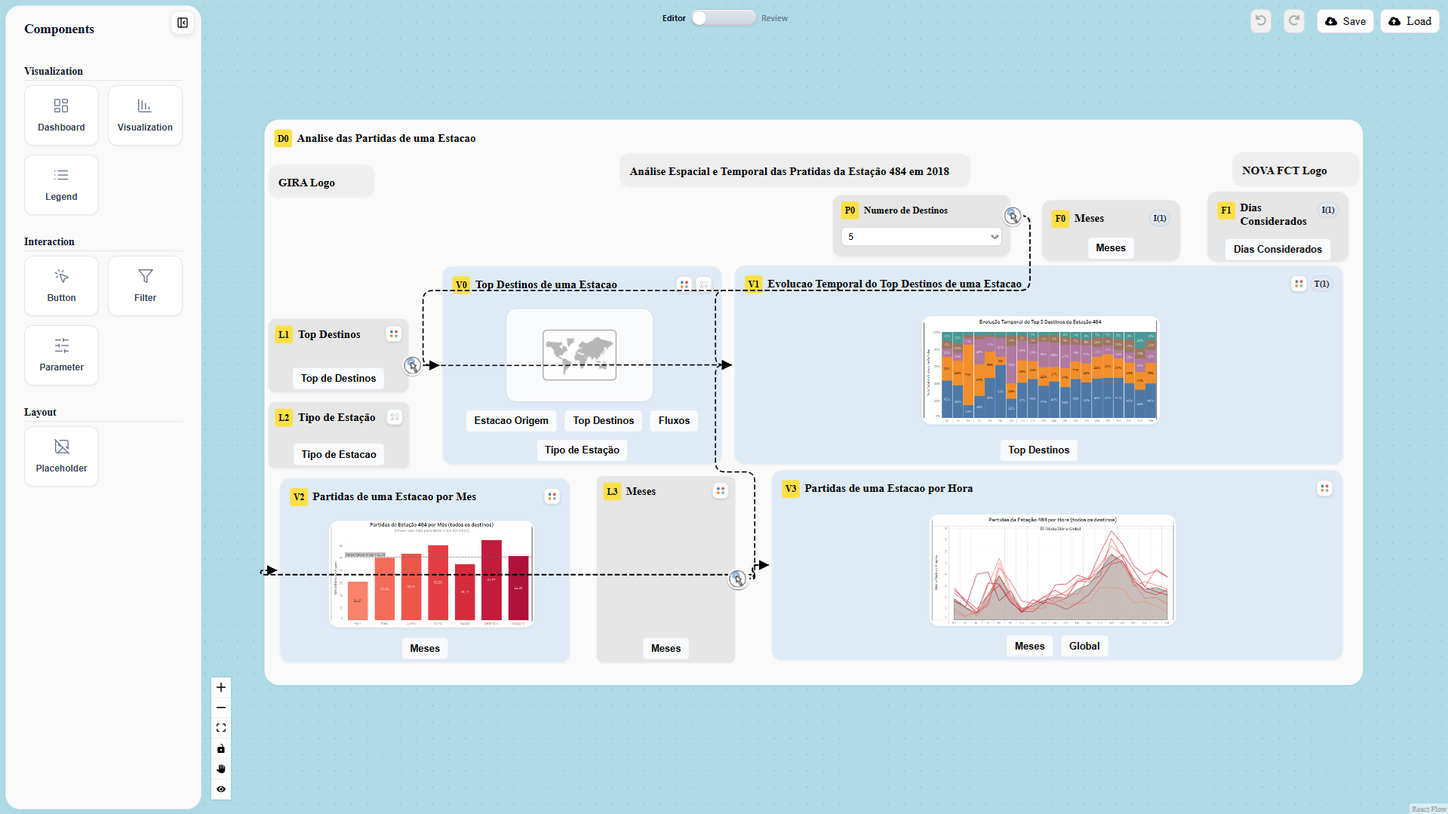
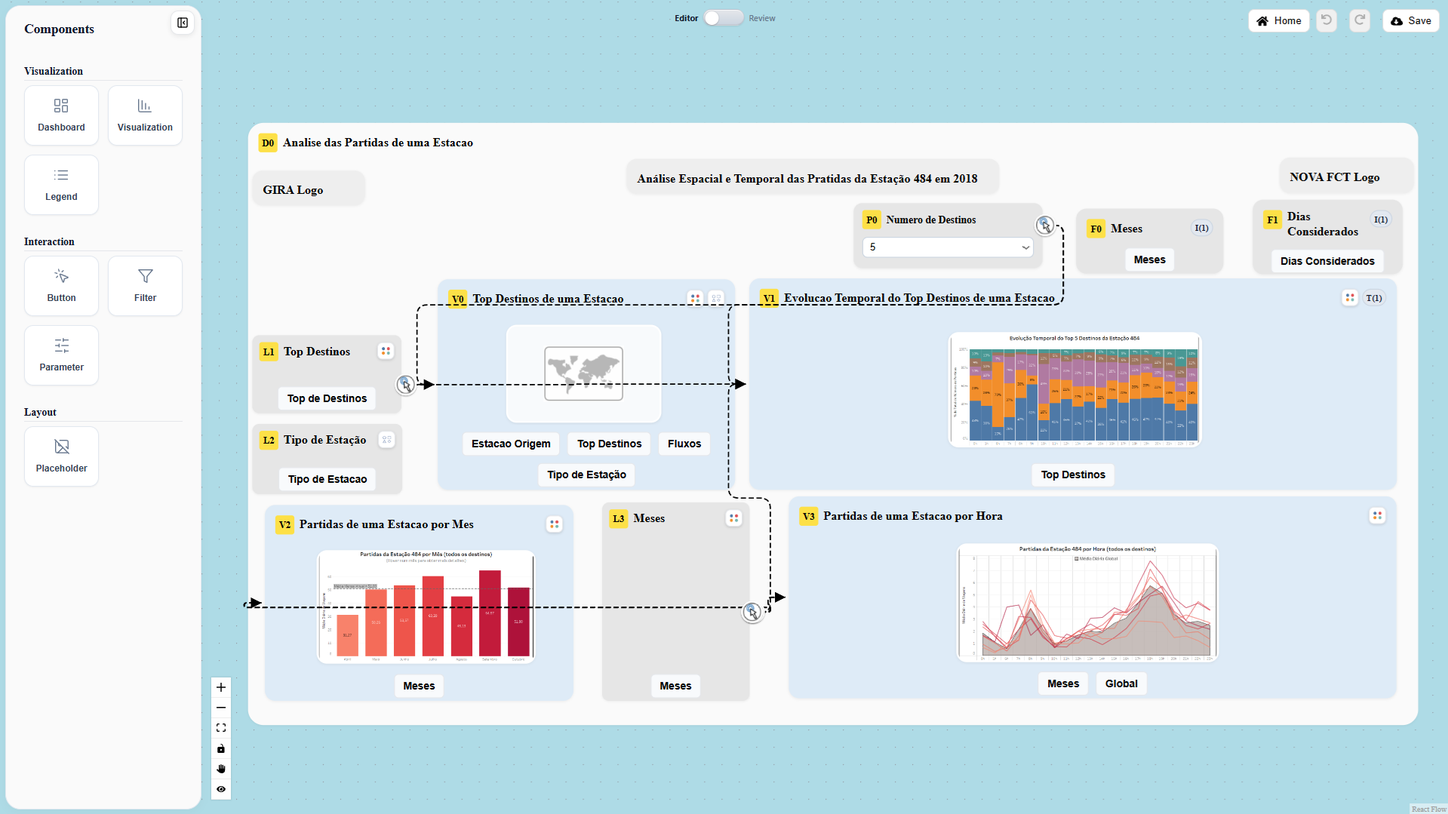
Atualizações dos links de videos e prints
Devido às alterações feitas na aplicação

Changed region(s): [[0.1537, 0.1223, 0.9838, 0.9175], [0.8609, 0.0, 0.9838, 0.0612], [0.4612, 0.0, 0.5534, 0.0306]]

diff --git a/Chapters/chapter4.tex b/Chapters/chapter4.tex
@@ -20,7 +20,7 @@ A aplicação encontra-se disponível publicamente como uma plataforma \textit{w
 
 A organização do capítulo segue uma progressão do geral para o específico, procurando primeiro estabelecer uma visão arquitetural do sistema e, de seguida, detalhar o funcionamento das suas funcionalidades principais. Em primeiro lugar, apresenta-se a arquitetura global do \textit{Dashboard Designer}, descrevendo a organização do projeto, os principais módulos e a forma como estes se articulam para suportar o editor, incluindo os mecanismos adotados para persistência e portabilidade de projetos. De seguida, descreve-se o \textit{Modo de Edição} (\textit{Editor Mode}), que corresponde ao núcleo de prototipagem da ferramenta, detalhando o \textit{canvas} interativo, a criação e manipulação dos diferentes tipos de nós e ligações, e o processo de configuração da informação associada a cada componente, garantindo consistência com o meta-modelo definido anteriormente. Por fim, analisa-se o \textit{Modo de Revisão} (\textit{Review Mode}), que introduz um fluxo dedicado à análise e recolha de \textit{feedback} diretamente sobre elementos concretos do protótipo (nós e ligações), promovendo um processo de iteração mais controlado e uma comunicação contextualizada dentro da própria aplicação.
 
-\section{Arquitetura do Sistema (DAR MAIS DETALHE NO JSON E A SUA ESTRUTURA)}
+\section{Arquitetura do Sistema}
 \label{sec:cap4_arquitetura}
 
 A arquitetura do \textit{Dashboard Designer} foi concebida para suportar um editor visual baseado em nós e ligações, assegurando uma utilização fluida no navegador e uma implementação fácil de manter e evoluir. Para isso, o sistema encontra-se organizado em componentes com responsabilidades bem definidas, o que facilita a extensão de funcionalidades e a correção de problemas de forma controlada. Adicionalmente, a ferramenta inclui mecanismos que permitem guardar e reutilizar projetos, bem como transportá-los entre diferentes contextos de utilização, suportando um processo iterativo de prototipagem e revisão.
@@ -42,16 +42,21 @@ O protótipo de um \textit{dashboard} desenvolvido no \textit{Dashboard Designer
 
 A estrutura do protótipo é descrita pelo conjunto de nós e ligações, complementado por informações de contexto necessário ao processo de edição, como o elemento selecionado e a sua área visível no \textit{canvas}. Sempre que o utilizador realiza uma ação no editor (por exemplo, criar, mover ou editar um elemento), essa informação é atualizada e a interface reflete automaticamente as alterações, tanto no \textit{canvas} como nos painéis de configuração. Para tornar o processo de edição e revisão mais prático e consistente, a ferramenta inclui ainda funcionalidades de apoio, como \textit{undo/redo}, atalhos de teclado e regras de organização do \textit{layout}, que ajudam a manter uma utilização fluida e consistente.
 
-Um requisito fundamental do \textit{Dashboard Designer} é permitir que os projetos desenvolvidos sejam preservados e partilhados entre diferentes utilizadores. Para esse efeito, o sistema separa claramente \textbf{dados estruturais} (grafo e metadados) de \textbf{recursos pesados} (imagens associadas a \textit{screenshots}). A informação estrutural do projeto, nomeadamente a configuração do \textit{canvas} e a definição dos nós e das arestas, é guardada num formato JSON. Já as imagens associadas aos \textit{dashboards} são armazenadas localmente no navegador através do \textit{IndexedDB}, permitindo gerir estes recursos de forma eficiente sem sobrecarregar a informação principal do projeto. Esta decisão melhora a responsividade do editor e simplifica o ciclo de edição e revisão, especialmente quando o utilizador manipula múltiplos elementos com suporte visual.
+Um requisito fundamental do \textit{Dashboard Designer} é permitir que os projetos desenvolvidos sejam preservados e partilhados entre diferentes utilizadores. Para esse efeito, o sistema separa claramente \textbf{dados estruturais} (grafo, metadados e configuração do editor) de \textbf{recursos pesados} (imagens associadas a \textit{screenshots}). A informação estrutural do projeto é guardada num formato JSON e inclui, para além das propriedades semânticas de cada elemento, a informação de \textbf{layout do \textit{canvas}}, nomeadamente a \textbf{posição} de cada nó e as suas \textbf{dimensões}. Adicionalmente, são persistidos parâmetros de contexto do editor, como a área visível do \textit{canvas} (e.g., valores de \textit{pan} e \textit{zoom}), permitindo restaurar a vista de trabalho na reabertura do projeto. Já as imagens associadas aos \textit{dashboards} são armazenadas localmente no navegador através do \textit{IndexedDB}, permitindo gerir estes recursos de forma eficiente sem sobrecarregar a informação principal do projeto. Esta decisão melhora a responsividade do editor e simplifica o ciclo de edição e revisão, especialmente quando o utilizador manipula múltiplos elementos com suporte visual.
 
-De forma a permitir que os protótipos possam ser partilhados e reutilizados, o \textit{Dashboard Designer} utiliza um formato próprio de ficheiro com a extensão \texttt{.dashboard}. Este ficheiro reúne, num único elemento, toda a informação necessária para voltar a abrir um protótipo: a estrutura do grafo (nós e arestas), alguns parâmetros do editor (a área visível no \textit{canvas}) e as referências aos recursos associados, como imagens. Quando o utilizador exporta um projeto, a aplicação cria este ficheiro com a estrutura e os recursos necessários. Quando o projeto é importado, o processo é o inverso, reconstruindo o grafo e restaurando os recursos para que o protótipo possa ser visualizado e editado novamente. Esta abordagem facilita a partilha de protótipos entre utilizadores e permite preservar o trabalho desenvolvido sem depender de servidores de \textit{backend} externos.
+De forma a permitir que os protótipos possam ser partilhados e reutilizados, o \textit{Dashboard Designer} utiliza um formato próprio de ficheiro com a extensão \textbf{\texttt{.dashboard}}. Este ficheiro corresponde a um \textbf{arquivo comprimido} que reúne, num único ficheiro, toda a informação necessária para voltar a abrir um protótipo. Em particular, inclui um ficheiro \texttt{dashboard.json} com a descrição estrutural do projeto, contendo a lista de nós e arestas, os respetivos metadados, bem como informação de \textbf{layout} do \textit{canvas} (posição e dimensões dos nós) e parâmetros do editor (como a área visível no \textit{canvas} e o nível de \textit{zoom}). Quando existem recursos associados, como imagens de \textit{screenshots}, estes são incluídos no mesmo pacote numa pasta própria (\texttt{images/}), sendo referenciados a partir do \texttt{dashboard.json} por identificadores. Assim, no processo de exportação o sistema armazena a estrutura e os seus recursos num ficheiro único, e no processo de importação executa o inverso, reconstruindo o grafo e restaurando os recursos necessários para que o protótipo possa ser visualizado e editado novamente.
 
 Com a arquitetura do sistema definida, as secções seguintes descrevem as funcionalidades da aplicação em detalhe. A Secção~\ref{sec:cap4_editor_mode} aprofunda o \textit{Modo de Edição}, descrevendo o ambiente de edição, criação/manipulação de nós e o processo de configuração semântica do protótipo. A Secção~\ref{sec:cap4_review_mode} descreve o \textit{Modo de Recolha de Feedback}, dedicado à análise e recolha de \textit{feedback} contextualizado diretamente sobre elementos do \textit{dashboard}, suportando iteração e colaboração dentro da própria ferramenta.
+
+\section{Home Page}
+\label{sec:cap4_home_page}
+
+AQUI VER SE É MESMO NECESSÁRIO CRIAR UM SECÇÃO PARA APRESENTAR A HOME PAGE
 
 \section{Modo de Edição}
 \label{sec:cap4_editor_mode}
 
-\subsection{Ambiente de Edição e Canvas}
+\subsection{Ambiente de Edição e Canvas (AQUI O TEXTO DIZ QUE A IMAGEM APRESENTA O ESTADO INICIAL DA APLICAÇÃO, TENHO DE ALTERAR // ALTERAR TAMBÉM ONDE DESCREVO OS BOTÕES DO CABEÇALHO DO CANVAS)}
 \label{subsec:cap4_editor_canvas}
 
 O \textit{Modo de Edição} constitui o ambiente principal de trabalho do \textit{Dashboard Designer}, onde o utilizador constrói protótipos através da criação e organização de elementos representados como nós e ligações. A interface foi desenhada para ocupar a totalidade do ecrã, proporcionando uma área ampla de edição e evitando limitações associadas a janelas reduzidas. Esta abordagem é particularmente relevante num editor baseado em grafos, dado que a complexidade e o número de elementos pode aumentar rapidamente ao longo do processo de prototipagem. A Figura~\ref{fig:cap4_initial_interface} apresenta o estado inicial da aplicação, ilustrando a configuração inicial do \textit{canvas} e a disposição dos controlos essenciais para o início do processo de construção do protótipo.
@@ -67,9 +72,18 @@ A base do ambiente de edição é o \textit{canvas} interativo implementado com 
 
 A navegação no \textit{canvas} é suportada por operações de \textit{pan} e \textit{zoom}, com limites definidos para evitar escalas extremas, permitindo alternar entre uma visão global do protótipo e uma inspeção local de áreas específicas. Estas opções encontram-se disponíveis nos \textit{Controls} do editor, localizados no canto inferior esquerdo da interface. Em paralelo, o \textit{React Flow} permite selecionar elementos através de uma abordagem \textit{drag-and-drop} no \textit{canvas}. Para que o utilizador controle melhor este comportamento, é possível que o utilizador alterne entre dois modos de seleção: \textit{lasso}, onde é permitido ao utilizador selecionar múltiplos nós ao selecionar e arrastar o rato pela interface; e navegação, em que o mesmo gesto é utilizado para mover a área visível do \textit{canvas}. Desta forma, o utilizador consegue adaptar a metodologia de seleção consoante a tarefa que pretende realizar.
 
-A aplicação inclui ainda controlos globais que apoiam a edição e a revisão do protótipo desenvolvido. Em particular, é disponibilizada uma opção para controlar a visibilidade das ligações de interação no \textit{canvas}, permitindo reduzir o ruído visual quando o protótipo possui um elevado número de interações entre os diferentes elementos. Esta funcionalidade é particularmente útil em fases de refinamento, onde o utilizador pode optar por focar-se na estrutura e composição dos nós, e apenas visualizar as interações quando assim deseja.
+A aplicação inclui ainda controlos globais que apoiam a edição e a revisão do protótipo desenvolvido. Em particular, é disponibilizada uma opção para controlar a visibilidade das ligações de interação no \textit{canvas}, permitindo reduzir o ruído visual quando o protótipo possui um elevado número de interações entre os diferentes elementos. Esta funcionalidade é particularmente útil em fases de refinamento, onde o utilizador pode optar por focar-se na estrutura e composição dos nós, e apenas visualizar as interações quando assim deseja. 
 
-Para além do \textit{canvas}, a aplicação disponibiliza elementos adicionais na interface que suportam o processo de edição. Em particular, o \textit{SideMenu} apresenta os componentes disponíveis para construção do protótipo (por exemplo, visualizações, filtros e \textit{placeholders}), permitindo iniciar a criação de nós através de uma abordagem \textit{drag-and-drop}. Adicionalmente, a zona superior do ecrã disponibiliza controlos de produtividade, como \textit{undo/redo} e operações associadas à gestão de projetos, como importar e exportar. Por fim, é disponibilizado um seletor explícito de modo (\textit{Editor}/\textit{Review}) que permite alternar entre edição e revisão, mantendo o \textit{canvas} como elemento central do processo de prototipagem.
+Para tornar mais evidente o conjunto de controlos disponibilizados no \textit{canvas}, a Figura~\ref{fig:cap4_canvas_controls} apresenta um recorte da interface onde se destacam as opções de navegação e interação do editor. Estes controlos incluem operações de \textit{zoom in/out} e \textit{pan}, a possibilidade de bloquear a interatividade do \textit{canvas} (\textit{lock}), a alternância para o modo de seleção múltipla (\textit{lasso mode}) e a opção de ocultar/mostrar as ligações de interação (\textit{hide interactions}), permitindo reduzir ruído visual em protótipos mais complexos.
+
+\begin{figure}[htbp]
+    \centering
+    \includegraphics[width=0.55\textwidth]{controls}
+    \caption{Controlos do \textit{canvas}.}
+    \label{fig:cap4_canvas_controls}
+\end{figure}
+
+Para além do \textit{canvas}, a aplicação disponibiliza elementos adicionais na interface que suportam o processo de edição. Em particular, o \textit{SideMenu}, localizado no lado esquerdo da interface, apresenta os componentes disponíveis para construção do protótipo (por exemplo, visualizações, filtros e \textit{placeholders}), permitindo iniciar a criação de nós através de uma abordagem \textit{drag-and-drop}. Adicionalmente, a zona superior do ecrã disponibiliza controlos de produtividade, como \textit{undo/redo} e operações associadas à gestão de projetos, como importar e exportar. Por fim, é disponibilizado um seletor explícito de modo (\textit{Editor}/\textit{Review}) que permite alternar entre edição e revisão, mantendo o \textit{canvas} como elemento central do processo de prototipagem.
 
 A Figura~\ref{fig:cap4_editor_layout} apresenta um exemplo do \textit{Dashboard Designer} em \textit{Modo de Edição}, com um protótipo desenvolvido no \textit{canvas}. Esta imagem ilustra a disposição dos principais elementos da interface, como o \textit{SideMenu}, os controlos de navegação e a interação com os componentes, fornecendo uma visão clara do ambiente de trabalho utilizado para a criação e edição do protótipo.
 
@@ -91,22 +105,22 @@ Durante a ação de \textit{drag-and-drop}, a aplicação utiliza um \textit{Dra
 
 Para minimizar erros indesejados durante o processo de \textit{drag-and-drop} de elementos para o \textit{canvas}, foi adicionada uma \textit{TrashZone} no \textit{SideMenu}. Esta zona funciona como uma área de cancelamento da ação, isto é, caso o utilizador inicie o \textit{drag} de um componente e decida não o inserir no \textit{canvas}, pode largá-lo diretamente na \textit{TrashZone}, interrompendo a ação e evitando a criação acidental de um nó não desejado. Esta funcionalidade melhora a robustez da interação e torna o fluxo de criação mais tolerante a erros, evitando obrigar o utilizador a criar o nó e removê-lo posteriormente.
 
-Para garantir que a inserção de nós é consistente em contextos hierárquicos, a aplicação identifica automaticamente o contentor mais adequado durante o gesto de \textit{drag-and-drop}. Em particular, quando o utilizador posiciona um componente sobre uma zona onde existem múltiplos contentores sobrepostos, a aplicação privilegia o contentor mais específico, isto é, o nó que se encontra mais "interno" na hierarquia. Esta estratégia reduz ambiguidades durante a inserção e permite construir protótipos com vários níveis de hierarquia de forma previsível, assegurando que o nó é associado ao contexto pretendido pelo utilizador.
+Para garantir que a inserção de nós é consistente em contextos hierárquicos, a aplicação identifica automaticamente o contentor mais adequado durante o gesto de \textit{drag-and-drop}. Em particular, quando o utilizador posiciona um componente sobre uma zona onde existem múltiplos contentores sobrepostos, a aplicação privilegia o contentor mais específico, isto é, o nó que se encontra mais ``interno'' na hierarquia. Por exemplo, ao arrastar um \textit{Filtro} para uma área onde existe uma \textit{Visualização} inserida no interior de um \textit{Dashboard}, a aplicação associa o \textit{Filtro} à \textit{Visualização} (desde que a inserção seja semanticamente válida), em vez de o inserir diretamente ao nível do \textit{Dashboard}. Desta forma, evita-se que o nó seja colocado num nível hierárquico incorreto quando o objetivo do utilizador era associá-lo ao contexto específico da \textit{Visualização}. Esta estratégia reduz ambiguidades durante a inserção e permite construir protótipos com vários níveis de hierarquia de forma previsível, assegurando que o nó é associado ao contexto pretendido pelo utilizador.
 
 No caso específico de criação de nós através de \textit{drag-and-drop}, a sua criação pode ocorrer em dois cenários complementares, consoante o local onde o nó é inserido. Num primeiro cenário, o utilizador pode largar o componente numa área livre do \textit{canvas}, originando a criação de um nó ao nível \textit{root}. Neste caso, são atribuídos valores base para o nó, como é o caso do título, bem como um tamanho inicial dependente do tipo de componente, assegurando consistência visual e evitando que o nó seja inserido com dimensões inadequadas. No segundo cenário, o utilizador pode largar um componente dentro de um contentor, permitindo criar nós como filhos de outros nós. Para este caso, a aplicação verifica se a inserção é permitida de acordo com as regras semânticas do domínio. Estas regras são implementadas de forma centralizada, garantindo que apenas combinações válidas sejam aceites. Quando a inserção não é permitida, o editor fornece uma indicação imediata ao utilizador (cursor \textit{not-allowed}), evitando operações inválidas antes mesmo da criação do nó.
 
 Após a inserção, o nó pode ser ajustado diretamente no \textit{canvas}: o utilizador pode reposicioná-lo e, quando aplicável, redimensioná-lo de forma a refletir melhor o \textit{layout} pretendido. Estas ações são essenciais num processo de prototipagem iterativo, onde a organização espacial tende a ser refinada ao longo do tempo. Quando um nó é criado dentro de outro (passando a ser um nó filho), o editor mantém essa relação de forma explícita, garantindo que o nó é manipulado no contexto do respetivo contentor. Na prática, isto significa que o utilizador pode reposicionar o nó dentro do contentor, mas o seu movimento fica condicionado aos limites dessa área, evitando que o elemento saia da região onde deve existir.
 
-Para além de ser possível adicionar nós através de uma abordagem \textit{drag-and-drop}, a segunda forma de criação de nós é particularmente útil quando o utilizador pretende trabalhar dentro de um contexto específico, adicionando elementos diretamente ao nó selecionado. Sempre que um nó admite elementos no seu interior, a aplicação disponibiliza uma opção de inserção a partir do menu do nó selecionado (\textit{ComponentsMenu}). Este mecanismo complementa o \textit{drag-and-drop} e reduz o número de passos necessários para inserir elementos em estruturas hierárquicas. Esta adição é feita através da opção de \textit{Add Component} dentro do menu de cada nó, abrindo um \textit{popup} que apresenta os diferentes nós que são aceites como filhos do nó selecionado, desta forma restringimos a criação de nós a contextos válidos, evitando erros de implementação indesejados.
+Para além de ser possível adicionar nós através de uma abordagem \textit{drag-and-drop}, a segunda forma de criação de nós é particularmente útil quando o utilizador pretende trabalhar dentro de um contexto específico, adicionando elementos diretamente ao nó selecionado. Sempre que um nó admite elementos no seu interior, a aplicação disponibiliza uma opção de inserção a partir do menu do nó selecionado (\textit{ComponentsMenu}), apresentado no lado direito da interface. Este mecanismo complementa o \textit{drag-and-drop} e reduz o número de passos necessários para inserir elementos em estruturas hierárquicas. Esta adição é feita através da opção de \textit{Add Component} dentro do menu de cada nó, abrindo um \textit{popup} que apresenta os diferentes nós que são aceites como filhos do nó selecionado, desta forma restringimos a criação de nós a contextos válidos, evitando erros de implementação indesejados.
  
-De forma a apoiar a perceção de ambos os mecanismos de adição de nós disponibilizados pela ferramenta, foi disponibilizado um vídeo demonstrativo no Youtube\footnote{\url{https://youtu.be/dsbbIs1CATo}}. No vídeo é exemplificada a inserção de um nó de visualização no interior de um nó do tipo \textit{Dashboard}, recorrendo a dois métodos distintos:
+De forma a apoiar a perceção de ambos os mecanismos de adição de nós disponibilizados pela ferramenta, foi disponibilizado um vídeo demonstrativo no Youtube\footnote{\url{https://youtu.be/GlLO17ONGsY}}. No vídeo é exemplificada a inserção de um nó de visualização no interior de um nó do tipo \textit{Dashboard}, recorrendo a dois métodos distintos:
 
 \begin{itemize}
     \item criação por \textit{drag-and-drop}, arrastando o componente a partir do \textit{SideMenu} para o \textit{canvas} e posicionando-o dentro do nó \textit{Dashboard};
     \item criação através da opção \textit{AddComponent}, que permite adicionar o mesmo tipo de componente diretamente a partir do nó contentor.
 \end{itemize}
 
-\subsection{Edição de Propriedades e Estrutura Semântica (Perguntar se aqui adiciono em anexo todos os popups que eu menciono nos bullet points)}
+\subsection{Edição de Propriedades e Estrutura Semântica}
 \label{subsec:cap4_editor_propriedades}
 
 Após a criação e posicionamento dos nós no \textit{canvas}, o passo seguinte consiste em atribuir significado ao protótipo através da edição das propriedades associadas a cada componente. Nesta fase, a edição de propriedades não serve apenas para configurar a aparência dos elementos, mas sim para registar a informação que descreve cada componente (dados, configurações e contexto), garantindo alinhamento com o meta-modelo implementado numa fase inicial (Secção~\ref{sec:meta_modelo}). Desta forma, a edição de propriedades funciona como o mecanismo central da aplicação para transformar o conjunto de nós e ligações em especificações semântica de um \textit{dashboard}.
@@ -131,13 +145,13 @@ Grande parte da edição de propriedades é mediada por \textit{popups} dedicado
 
     \item \textbf{\texttt{DataPopup}}: concentra a definição e edição de atributos de dados associados aos elementos do protótipo. Permite registar de forma estruturada quais os dados relevantes para uma visualização, legenda, filtro ou \textit{tooltip}, promovendo consistência na documentação de dados ao longo do \textit{dashboard}.
 
-    \item \textbf{\texttt{GraphTypePopup}}: permite selecionar e configurar o tipo de gráfico associado a uma representação visual. Durante este processo, a ferramenta pode apresentar indicações contextuais através do \textit{ShowMeHint}, apoiando o utilizador na escolha do tipo de gráfico e reduzindo incerteza durante a configuração.
+    \item \textbf{\texttt{GraphTypePopup}}: permite selecionar e configurar o tipo de gráfico associado a uma representação visual. Durante este processo, a ferramenta pode apresentar indicações contextuais através do \textit{ShowMeHint}, apoiando o utilizador na escolha do tipo de gráfico e reduzindo incerteza durante a configuração (Figura~\ref{fig:cap4_popups_graphtype_visualvar_a}).
 
     \item \textbf{\texttt{GraphFieldsPopup}}: foca-se na configuração dos campos/atributos relevantes para a representação do gráfico, ajudando a estruturar a informação necessária para descrever como os dados são organizados na visualização.
 
     \item \textbf{\texttt{GraphMarkPopup}}: agrega opções relacionadas com a marca e caracterização visual do gráfico, complementando a definição do tipo de representação e reforçando a documentação do aspeto visual da visualização.
 
-    \item \textbf{\texttt{VisualVariablePopup}}: suporta a definição de variáveis visuais associadas às representações (por exemplo, codificações visuais usadas para distinguir valores ou categorias), promovendo consistência na forma como os dados são codificados visualmente.
+    \item \textbf{\texttt{VisualVariablePopup}}: suporta a definição de variáveis visuais associadas às representações (por exemplo, codificações visuais usadas para distinguir valores ou categorias), promovendo consistência na forma como os dados são codificados visualmente (Figura~\ref{fig:cap4_popups_graphtype_visualvar_b}).
 
     \item \textbf{\texttt{InteractionPopup}}: suporta a criação e edição de interações associadas a nós, permitindo registar a informação necessária para descrever comportamento interativo e relações que serão posteriormente materializadas no \textit{canvas}.
 
@@ -146,6 +160,27 @@ Grande parte da edição de propriedades é mediada por \textit{popups} dedicado
     \item \textbf{\texttt{SavePopup}}: agrega operações associadas à gestão de projetos, nomeadamente ações de persistência, importação e exportação, centralizando operações globais essenciais ao fluxo de trabalho.
 
 \end{itemize}
+
+\begin{figure}[htbp]
+    \centering
+    \begin{subfigure}[b]{0.48\textwidth}
+        \centering
+        \includegraphics[width=\textwidth]{popups/graphType}
+        \caption{\textit{GraphTypePopup}.}
+        \label{fig:cap4_popups_graphtype_visualvar_a}
+    \end{subfigure}
+    \hfill
+    \begin{subfigure}[b]{0.48\textwidth}
+        \centering
+        \includegraphics[width=\textwidth]{popups/visualVariable}
+        \caption{\textit{VisualVariablePopup}.}
+        \label{fig:cap4_popups_graphtype_visualvar_b}
+    \end{subfigure}
+    \caption{\textit{Popups} de configuração de gráficos e variáveis visuais.}
+    \label{fig:cap4_popups_graphtype_visualvar}
+\end{figure}
+
+A configuração de tipos de gráfico e de variáveis visuais foi concebida para facilitar a extensão da ferramenta. Estas opções são geridas como catálogos internos, o que permite adicionar novos tipos de gráfico ou novas variáveis visuais sem alterar o fluxo de edição dos \textit{popups}. Apenas é necessário atualizar as definições internas do sistema para que as novas opções fiquem disponíveis automaticamente nos \textit{popups} correspondentes. Esta abordagem segue o mesmo princípio aplicado noutras partes do sistema, como a adição de novos tipos de nós e respetivas propriedades, permitindo evoluir o \textit{Dashboard Designer} de forma incremental e mantendo uma base de código modular, extensível e fácil de manter.
 
 As propriedades específicas variam consoante o tipo de nó e são editadas através de menus contextuais e \textit{popups} dedicados. A Tabela~\ref{tab:node_specific_props} sintetiza os principais atributos específicos considerados no editor e a sua finalidade.
 
@@ -195,11 +230,11 @@ Por fim, a edição de propriedades tem impacto direto na leitura global do prot
 \subsection{Interações e Tooltips}
 \label{subsec:cap4_editor_interacoes_tooltips}
 
-A definição de \textit{interações} e de \textit{tooltips} constitui uma das etapas mais relevantes do \textit{Editor Mode}, uma vez que permite descrever não só a estrutura do \textit{dashboard}, mas também o seu comportamento e o tipo de informação contextual disponibilizada ao utilizador. Enquanto que as secções anteriores se focaram na criação de nós e na configuração das suas propriedades, nesta subsecção, descreve-se como o \textit{Dashboard Designer} suporta a modelação de relações funcionais entre componentes. Na prática, estas relações facilitam a identificação das interações entre os diferentes nós do protótipo, e que informação adicional deve ser apresentada ao utilizador quando efetua determinadas ações sobre as diferentes visualizações, tornando a implementação do protótipo o mais próxima possível do \textit{dashboard} real.
+A definição de \textit{interações} e de \textit{tooltips} constitui uma das etapas mais relevantes do \textit{Editor Mode}, uma vez que permite descrever não só a estrutura do \textit{dashboard}, mas também o seu comportamento. Enquanto que as secções anteriores se focaram na criação de nós e na configuração das suas propriedades, nesta subsecção, descreve-se como o \textit{Dashboard Designer} suporta a modelação de relações funcionais entre componentes. Na prática, estas relações facilitam a identificação das interações entre os diferentes nós do protótipo, e que informação adicional deve ser apresentada ao utilizador quando efetua determinadas ações sobre as diferentes visualizações, tornando a implementação do protótipo o mais próxima possível do \textit{dashboard} real.
 
 De um ponto de vista conceptual, o \textit{Dashboard Designer} representa um protótipo desenvolvido sob a forma de um grafo, onde os nós modelam elementos do \textit{dashboard} e as arestas materializam relações entre esses elementos. No entanto, nem todas as relações possuem o mesmo significado. Para manter clareza e reduzir ambiguidade na leitura do protótipo, a ferramenta distingue categorias de ligações no \textit{canvas}. Em particular, são suportadas ligações associadas a \textbf{interações}, que descrevem dependências funcionais entre componentes, e ligações associadas a \textbf{tooltips}, que descrevem associações de informação contextual adicional numa visualização. Esta distinção é importante porque permite aplicar regras específicas por categoria e fornece ao utilizador uma leitura mais imediata do tipo de relação representada.
 
-A criação de interações é feita através de um \textit{popup} dedicado, o \texttt{InteractionPopup}, que permite ao utilizador configurar de forma simples o comportamento entre os diferentes elementos do protótipo. Na Figura~\ref{fig:cap4_interaction_popup} é ilustrado este \textit{popup}. Em primeiro lugar, o utilizador define o \textbf{nome da interação}, este nome tem como principal objetivo descrever de forma breve a ação que está a ser configurada no protótipo. De seguida, é especificado o \textbf{\textit{trigger}} da interação, isto é, o evento que irá desencadear a ação (\textit{click} ou \textit{hover}). Este campo está disponível apenas no nó de \textit{Visualization}, uma vez que, em nós como \textit{Legend}, \textit{Filter}, \textit{Parameter} e \textit{Button}, o \textit{trigger} é fixo, sendo sempre configurados com \textit{click}. Após esta seleção, o utilizador define o \textbf{efeito} da interação, ou seja, o tipo de resultado que ocorre quando a interação é acionada. De forma semelhante ao campo de \textit{trigger}, existem determinados nós que possuem este campo com um valor fixo: no nó \textit{Filter}, o efeito é de filtro; no nó \textit{Button}, o efeito é de navegação; e no nó \textit{Parameter}, o efeito é de \textit{parameter binding}. Em seguida, o utilizador define a \textbf{origem da interação}, que determina se a interação é originada diretamente do nó em questão ou de um atributo de dados associado a ele. Esta opção está disponível exclusivamente para o nó \textit{Visualization}, sendo que para os restantes nós a interação parte sempre do nó como um todo e não dos possíveis atributos de dados que possam ter na sua estrutura. Por fim, o utilizador escolhe os \textbf{componentes afetados}. A seleção destes nós é filtrada para exibir apenas aqueles que podem ser afetados pelo tipo de interação a ser criado, garantindo que interações inválidas não sejam configuradas. Este fluxo orientado tem uma vantagem principal no contexto de prototipagem: reduz a probabilidade de erros, pois o utilizador não necessita de memorizar regras implícitas nem configurar interações de forma dispersa. Após a configuração, a relação definida é refletida no \textit{canvas} através de ligações específicas, permitindo ao utilizador visualizar as dependências existentes entre os diferentes elementos do protótipo.
+A criação de interações é feita através de um \textit{popup} dedicado, o \texttt{InteractionPopup}, que permite ao utilizador configurar de forma simples o comportamento entre os diferentes elementos do protótipo. Na Figura~\ref{fig:cap4_interaction_popup} é ilustrado este \textit{popup}. O conteúdo e as opções apresentadas neste \textit{popup} variam consoante o tipo de nó selecionado, uma vez que nem todos os elementos suportam o mesmo conjunto de parâmetros e efeitos de interação. Em primeiro lugar, o utilizador define o \textbf{nome da interação}, este nome tem como principal objetivo descrever de forma breve a ação que está a ser configurada no protótipo. De seguida, é especificado o \textbf{\textit{trigger}} da interação, isto é, o evento que irá desencadear a ação (\textit{click} ou \textit{hover}). Este campo está disponível apenas no nó de \textit{Visualization}, uma vez que, em nós como \textit{Legend}, \textit{Filter}, \textit{Parameter} e \textit{Button}, o \textit{trigger} é fixo, sendo sempre configurados com \textit{click}. Após esta seleção, o utilizador define o \textbf{efeito} da interação, ou seja, o tipo de resultado que ocorre quando a interação é acionada. De forma semelhante ao campo de \textit{trigger}, existem determinados nós que possuem este campo com um valor fixo: no nó \textit{Filter}, o efeito é de filtro; no nó \textit{Button}, o efeito é de navegação; e no nó \textit{Parameter}, o efeito é de \textit{parameter binding}. Em seguida, o utilizador define a \textbf{origem da interação}, que determina se a interação é originada diretamente do nó em questão ou de um atributo de dados associado a ele. Esta opção está disponível exclusivamente para o nó \textit{Visualization}, sendo que para os restantes nós a interação parte sempre do nó como um todo e não dos possíveis atributos de dados que possam ter na sua estrutura. Por fim, o utilizador escolhe os \textbf{componentes afetados}. A seleção destes nós é filtrada para exibir apenas aqueles que podem ser afetados pelo tipo de interação a ser criado, garantindo que interações inválidas não sejam configuradas. Este fluxo orientado tem uma vantagem principal no contexto de prototipagem: reduz a probabilidade de erros, pois o utilizador não necessita de memorizar regras implícitas nem configurar interações de forma dispersa. Após a configuração, a relação definida é refletida no \textit{canvas} através de ligações específicas, permitindo ao utilizador visualizar as dependências existentes entre os diferentes elementos do protótipo. De forma a tornar mais claro o fluxo de criação de interações, foi disponibilizado um vídeo demonstrativo\footnote{\url{https://youtu.be/U4avBorGBt4}}. No vídeo é apresentado o processo completo de configuração de uma interação no \texttt{InteractionPopup}, incluindo a definição do nome, do \textit{trigger}, do efeito associado e da seleção dos componentes afetados. Por fim, é possível observar a criação da ligação correspondente no \textit{canvas}, evidenciando como a dependência definida fica representada de forma explícita no protótipo.
 
 \begin{figure}[htbp]
     \centering
@@ -208,7 +243,7 @@ A criação de interações é feita através de um \textit{popup} dedicado, o \
     \label{fig:cap4_interaction_popup}
 \end{figure}
 
-De forma complementar, os \textit{tooltips} são utilizados para documentar informação contextual adicional associada a uma visualização sem ocupar espaço permanentemente no seu \textit{layout}. Do ponto de vista do design de \textit{dashboards}, este tipo de informação é essencial para enriquecer as visualizações, oferecendo mais contexto e detalhes ao utilizador. No \textit{Dashboard Designer}, a configuração dos \textit{tooltips} é suportada por um \textit{popup} dedicado, o \texttt{TooltipPopup}, ilustrado na Figura~\ref{fig:cap4_tooltip_popup}. O fluxo de configuração inicia-se com a definição do \textbf{nome} do \textit{tooltip}, este nome será apresentado no \textit{header} do nó após a sua criação no \textit{canvas}, tornando a sua identificação clara e direta. O próximo passo é especificar se o \textit{tooltip} estará \textbf{conectado} através de uma interação sobre a visualização ou sobre um atributo de dados específico dessa visualização. Esta distinção é crucial, uma vez que permite associar \textit{tooltips} com níveis de granularidade diferente: desde informação mais geral sobre a visualização, até informações específicas para atributos ou elementos de dados concretos, suportando assim múltiplos \textit{tooltips} numa mesma visualização. De seguida, o utilizador define o tipo de \textbf{evento} que irá ser utilizado para ativar o \textit{tooltip}. Esta escolha reflete o tipo de ação que o utilizador tem de realizar no \textit{dashboard} real para exibir a informação contida no \textit{tooltip} desenvolvido. Por fim, a relação entre o \textit{tooltip} e a visualização é estabelecida, garantindo que a sua ligação é desenhada no protótipo. Tal como acontece com as interações, a utilização de um \textit{popup} dedicado para \textit{tooltips} promove consistência e reduz o ruído visual no \textit{canvas}. Em vez de introduzir texto ou detalhes diretamente sobre a representação principal, o utilizador regista a informação de forma organizada e reutilizável. Esta abordagem é particularmente importante em protótipos que integram múltiplas visualizações e relações.
+De forma complementar, os \textit{tooltips} são utilizados para documentar informação contextual adicional associada a uma visualização sem ocupar espaço permanentemente no seu \textit{layout}. Do ponto de vista do design de \textit{dashboards}, este tipo de informação é essencial para enriquecer as visualizações, oferecendo mais contexto e detalhes ao utilizador. No \textit{Dashboard Designer}, a configuração dos \textit{tooltips} é suportada por um \textit{popup} dedicado, o \texttt{TooltipPopup}, ilustrado na Figura~\ref{fig:cap4_tooltip_popup}. O fluxo de configuração inicia-se com a definição do \textbf{nome} do \textit{tooltip}, este nome será apresentado no \textit{header} do nó após a sua criação no \textit{canvas}, tornando a sua identificação clara e direta. O próximo passo é especificar se o \textit{tooltip} estará \textbf{conectado} através de uma interação sobre a visualização ou sobre um atributo de dados específico dessa visualização. Esta distinção é crucial, uma vez que permite associar \textit{tooltips} com níveis de granularidade diferente: desde informação mais geral sobre a visualização, até informações específicas para atributos ou elementos de dados concretos, suportando assim múltiplos \textit{tooltips} numa mesma visualização. De seguida, o utilizador define o tipo de \textbf{evento} que irá ser utilizado para ativar o \textit{tooltip}. Esta escolha reflete o tipo de ação que o utilizador tem de realizar no \textit{dashboard} real para exibir a informação contida no \textit{tooltip} desenvolvido. Por fim, a relação entre o \textit{tooltip} e a visualização é estabelecida, garantindo que a sua ligação é desenhada no protótipo. Tal como acontece com as interações, a utilização de um \textit{popup} dedicado para \textit{tooltips} promove consistência e reduz o ruído visual no \textit{canvas}. Em vez de introduzir texto ou detalhes diretamente sobre a representação principal, o utilizador regista a informação de forma organizada e reutilizável. Esta abordagem é particularmente importante em protótipos que integram múltiplas visualizações e relações. De forma semelhante, foi disponibilizado um vídeo demonstrativo dedicado à configuração de \textit{tooltips}\footnote{\url{https://youtu.be/OprTV1krrTU}}. O vídeo mostra a criação de um \textit{tooltip} no \texttt{TooltipPopup}, incluindo a definição do nome, a escolha do tipo de associação (à visualização como um todo ou a um atributo de dados específico) e o evento de ativação. No final, é ilustrada a forma como o \textit{tooltip} fica associado à visualização no \textit{canvas}, permitindo documentar informação contextual adicional sem introduzir ruído permanente no \textit{layout}.
 
 \begin{figure}[htbp]
     \centering
@@ -268,7 +303,7 @@ Após a personalização e criação de um comentário no sistema, o \textit{Das
 
 Os comentários criados são guardados como entidades associadas ao protótipo e mantêm uma ligação explícita ao elemento alvo através do seu identificador. Esta ligação garante que, para além do conteúdo e dos campos de caracterização, cada comentário preserva o contexto necessário para ser interpretado corretamente, permitindo localizar o nó ou ligação correspondente no \textit{canvas} sempre que necessário. A forma como estes comentários são apresentados na interface e como o utilizador pode navegar e consultar o \textit{feedback} registado é descrita com maior detalhe na secção seguinte.
 
-De forma a tornar mais claro o processo de recolha e gestão de \textit{feedback} no sistema, foi disponibilizado um vídeo demonstrativo no Youtube\footnote{\url{https://youtu.be/09UAZLCCXVw}}. No vídeo é apresentado o fluxo completo de associação de um comentário a um nó específico no \textit{canvas}. Após a inserção do comentário no nó, são demonstradas as principais propriedades e ações disponíveis, incluindo a edição do conteúdo do comentário, a publicação de uma resposta associada e, por fim, a alteração do seu estado para \textit{resolvido}. Este exemplo evidencia como o \textit{Dashboard Designer} suporta um ciclo de revisão estruturado diretamente sobre o protótipo, mantendo o contexto do comentário associado ao elemento avaliado.
+De forma a tornar mais claro o processo de recolha e gestão de \textit{feedback} no sistema, foi disponibilizado um vídeo demonstrativo no Youtube\footnote{\url{https://youtu.be/-pegLHxtSBg}}. No vídeo é apresentado o fluxo completo de associação de um comentário a um nó específico no \textit{canvas}. Após a inserção do comentário no nó, são demonstradas as principais propriedades e ações disponíveis, incluindo a edição do conteúdo do comentário, a publicação de uma resposta associada e, por fim, a alteração do seu estado para \textit{resolvido}. Este exemplo evidencia como o \textit{Dashboard Designer} suporta um ciclo de revisão estruturado diretamente sobre o protótipo, mantendo o contexto do comentário associado ao elemento avaliado.
 
 \subsection{Visualização do Feedback}
 \label{subsec:cap4_visualizacao_feedback}
